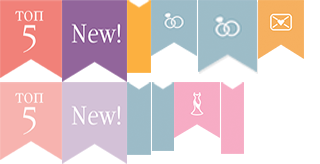
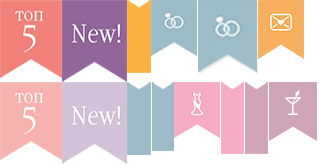
+ hen-party page

Changed region(s): [[0.75, 0.4878, 1.0, 0.9451]]

diff --git a/hen-party.html b/hen-party.html
@@ -38,7 +38,7 @@
             </div>
             <nav class="main-nav">
                 <ul id="nav">
-                    <li class="invitations active">
+                    <li class="invitations">
                         <a href="#"><span>Приглашения</span></a>
                     </li>
                     <li class="wedding-look has-drop">
@@ -56,10 +56,10 @@
                             <li><a href="#">Выездная регистрация</a></li>
                         </ul>
                     </li>
-                    <li class="party has-drop">
+                    <li class="party has-drop active">
                         <a href="#"><span>Девичник и мальчишник</span></a>
                         <ul class="drop">
-                            <li><a href="#">Девичник</a></li>
+                            <li class="active"><a href="#">Девичник</a></li>
                             <li><a href="#">Мальчишник</a></li>
                         </ul>
                     </li>
@@ -95,11 +95,11 @@
         </header>
         <main id="main">
             <div class="container">
-                <h1 class="title title-invitations-wide"><span>Приглашения</span></h1>
-                <div class="ideas ideas-invitations">
+                <h1 class="title title-hen-party-wide"><span>Девичник</span></h1>
+                <div class="ideas ideas-hen-party">
                     <div class="text-holder">
                         <span class="text-fotoideas"><img src="images/text-fotoideas.png" alt="Фотоидеи"/></span>
-                        <strong class="text-add-photos"><img src="images/text-add-photos-brown.png" alt="Создай приглашение своей мечты добавляй фотографии в коллекции и делись с друзьями"/></strong>
+                        <strong class="text-add-photos"><img src="images/text-add-photos-purple.png" alt="Создай девичник своей мечты добавляй фотографии в коллекции и делись с друзьями"/></strong>
                         <ul class="color-list">
                             <li><a href="#"><span style="background: #c92038;">&nbsp;</span></a></li>
                             <li><a href="#"><span style="background: #f9bfcb;">&nbsp;</span></a></li>
@@ -132,15 +132,15 @@
                             <div class="photo-box photo-box-large2 pink-color">
                                 <div class="caption">
                                     <div class="cell cell-sticker">
-                                        <span class="sticker orange-wide"></span>
+                                        <span class="sticker purple-wide"></span>
                                     </div>
                                     <div class="cell">
-                                        <strong><a href="#">Как сделать оригинальное приглашение на свадьбу</a></strong>
+                                        <strong><a href="#">Как провести девичник?</a></strong>
                                     </div>
                                 </div>
                                 <a class="img-link" href="#">&nbsp;</a>
                                 <div class="photo">
-                                    <div class="cropper"><img src="images/img72.jpg" alt="" width="368" height="238"/></div>
+                                    <div class="cropper"><img src="images/img79.jpg" alt="" width="369" height="246"/></div>
                                 </div>
                             </div>
                         </li>
@@ -148,15 +148,15 @@
                             <div class="photo-box photo-box-large2 pink-color">
                                 <div class="caption">
                                     <div class="cell cell-sticker">
-                                        <span class="sticker orange-wide"></span>
+                                        <span class="sticker purple-wide"></span>
                                     </div>
                                     <div class="cell">
-                                        <strong><a href="#">Приглашения в стиле свадьбы</a></strong>
+                                        <strong><a href="#">Где провести девичник?</a></strong>
                                     </div>
                                 </div>
                                 <a class="img-link" href="#">&nbsp;</a>
                                 <div class="photo">
-                                    <div class="cropper"><img src="images/img73.jpg" alt="" width="367" height="245"/></div>
+                                    <div class="cropper"><img src="images/img80.jpg" alt="" width="362" height="243"/></div>
                                 </div>
                             </div>
                         </li>
@@ -164,15 +164,63 @@
                             <div class="photo-box photo-box-large2 pink-color">
                                 <div class="caption">
                                     <div class="cell cell-sticker">
-                                        <span class="sticker orange-wide"></span>
+                                        <span class="sticker purple-wide"></span>
                                     </div>
                                     <div class="cell">
-                                        <strong><a href="#">Тексты для приглашений</a></strong>
+                                        <strong><a href="#">Подарки</a></strong>
                                     </div>
                                 </div>
                                 <a class="img-link" href="#">&nbsp;</a>
                                 <div class="photo">
-                                    <div class="cropper"><img src="images/img74.jpg" alt="" width="364" height="245"/></div>
+                                    <div class="cropper"><img src="images/img81.jpg" alt="" width="357" height="243"/></div>
+                                </div>
+                            </div>
+                        </li>
+                        <li>
+                            <div class="photo-box photo-box-large2 pink-color">
+                                <div class="caption">
+                                    <div class="cell cell-sticker">
+                                        <span class="sticker purple-wide"></span>
+                                    </div>
+                                    <div class="cell">
+                                        <strong><a href="#">Тематика вечеринки</a></strong>
+                                    </div>
+                                </div>
+                                <a class="img-link" href="#">&nbsp;</a>
+                                <div class="photo">
+                                    <div class="cropper"><img src="images/img82.jpg" alt="" width="369" height="246"/></div>
+                                </div>
+                            </div>
+                        </li>
+                        <li>
+                            <div class="photo-box photo-box-large2 pink-color">
+                                <div class="caption">
+                                    <div class="cell cell-sticker">
+                                        <span class="sticker purple-wide"></span>
+                                    </div>
+                                    <div class="cell">
+                                        <strong><a href="#">Конкурсы и идеи</a></strong>
+                                    </div>
+                                </div>
+                                <a class="img-link" href="#">&nbsp;</a>
+                                <div class="photo">
+                                    <div class="cropper"><img src="images/img83.jpg" alt="" width="361" height="253"/></div>
+                                </div>
+                            </div>
+                        </li>
+                        <li>
+                            <div class="photo-box photo-box-large2 pink-color">
+                                <div class="caption">
+                                    <div class="cell cell-sticker">
+                                        <span class="sticker purple-wide"></span>
+                                    </div>
+                                    <div class="cell">
+                                        <strong><a href="#">Оформление</a></strong>
+                                    </div>
+                                </div>
+                                <a class="img-link" href="#">&nbsp;</a>
+                                <div class="photo">
+                                    <div class="cropper"><img src="images/img84.jpg" alt="" width="368" height="246"/></div>
                                 </div>
                             </div>
                         </li>
@@ -185,11 +233,11 @@
                             <div class="photo-box photo-box-large">
                                 <a class="img-link" href="#">&nbsp;</a>
                                 <div class="photo">
-                                    <div class="cropper"><img src="images/img75.jpg" alt="" width="361" height="257"/></div>
+                                    <div class="cropper"><img src="images/img85.jpg" alt="" width="364" height="246"/></div>
                                 </div>
                                 <div class="caption">
                                     <div class="cell">
-                                        <strong><a href="#">Видео приглашение</a></strong>
+                                        <strong><a href="#">Подбор места</a></strong>
                                         <span class="price">От 1 200 руб.</span>
                                     </div>
                                 </div>
@@ -199,11 +247,11 @@
                             <div class="photo-box photo-box-large">
                                 <a class="img-link" href="#">&nbsp;</a>
                                 <div class="photo">
-                                    <div class="cropper"><img src="images/img76.jpg" alt="" width="356" height="261"/></div>
+                                    <div class="cropper"><img src="images/img86.jpg" alt="" width="362" height="271"/></div>
                                 </div>
                                 <div class="caption">
                                     <div class="cell">
-                                        <strong><a href="#">Интернет открытка</a></strong>
+                                        <strong><a href="#">Оформление помещения</a></strong>
                                         <span class="price">От 1 500 руб.</span>
                                     </div>
                                 </div>
@@ -213,11 +261,10 @@
                             <div class="photo-box photo-box-large">
                                 <a class="img-link" href="#">&nbsp;</a>
                                 <div class="photo">
-                                    <div class="cropper"><img src="images/img77.jpg" alt="" width="354" height="244"/></div>
+                                    <div class="cropper"><img src="images/img87.jpg" alt="" width="356" height="245"/></div>
                                 </div>
                                 <div class="caption">
                                     <div class="cell">
-                                        <strong><a href="#">Интернет сайт</a></strong>
                                         <span class="price">От 2 200 руб.</span>
                                     </div>
                                 </div>
@@ -227,11 +274,11 @@
                             <div class="photo-box photo-box-large">
                                 <a class="img-link" href="#">&nbsp;</a>
                                 <div class="photo">
-                                    <div class="cropper"><img src="images/img78.jpg" alt="" width="365" height="247"/></div>
+                                    <div class="cropper"><img src="images/img88.jpg" alt="" width="355" height="244"/></div>
                                 </div>
                                 <div class="caption">
                                     <div class="cell">
-                                        <strong><a href="#">Удивительный курьер - приглашение лично в руки</a></strong>
+                                        <strong><a href="#">Прокат лимузина</a></strong>
                                         <span class="price">От 1 200 руб.</span>
                                     </div>
                                 </div>
@@ -250,7 +297,7 @@
                                 </div>
                                 <div class="caption">
                                     <div class="cell cell-sticker">
-                                        <span class="sticker">&nbsp;</span>
+                                        <span class="sticker purple">&nbsp;</span>
                                     </div>
                                     <div class="cell">
                                         <strong><a href="#">Подушечка для колец</a></strong>
@@ -267,7 +314,7 @@
                                 </div>
                                 <div class="caption">
                                     <div class="cell cell-sticker">
-                                        <span class="sticker">&nbsp;</span>
+                                        <span class="sticker purple">&nbsp;</span>
                                     </div>
                                     <div class="cell">
                                         <strong><a href="#">Корочка для свидетельства о браке</a></strong>
@@ -284,7 +331,7 @@
                                 </div>
                                 <div class="caption">
                                     <div class="cell cell-sticker">
-                                        <span class="sticker">&nbsp;</span>
+                                        <span class="sticker purple">&nbsp;</span>
                                     </div>
                                     <div class="cell">
                                         <strong><a href="#">Бокалы для шампанского</a></strong>
@@ -301,7 +348,7 @@
                                 </div>
                                 <div class="caption">
                                     <div class="cell cell-sticker">
-                                        <span class="sticker">&nbsp;</span>
+                                        <span class="sticker purple">&nbsp;</span>
                                     </div>
                                     <div class="cell">
                                         <strong><a href="#">Ручка для росписи</a></strong>
@@ -318,7 +365,7 @@
                                 </div>
                                 <div class="caption">
                                     <div class="cell cell-sticker">
-                                        <span class="sticker">&nbsp;</span>
+                                        <span class="sticker purple">&nbsp;</span>
                                     </div>
                                     <div class="cell">
                                         <strong><a href="#">Лепестки роз, конфети, хлопушки</a></strong>
@@ -335,7 +382,7 @@
                                 </div>
                                 <div class="caption">
                                     <div class="cell cell-sticker">
-                                        <span class="sticker">&nbsp;</span>
+                                        <span class="sticker purple">&nbsp;</span>
                                     </div>
                                     <div class="cell">
                                         <strong><a href="#">Корзины/кулечки для лепестков</a></strong>

diff --git a/css/style.css b/css/style.css
@@ -807,6 +807,14 @@ fieldset {
     background-position: 0 -644px;
 }
 
+.title.title-hen-party-wide {
+    margin-bottom: 20px;
+}
+.title.title-hen-party-wide span {
+    width: 1201px;
+    height: 46px;
+    background-position: 0 -694px;
+}
 .text-title {
     display: block;
     margin: 0;
@@ -1112,7 +1120,7 @@ fieldset {
 }
 .photo-box .photo {
     position: relative;
-    padding: 14px 5px 5px;
+    padding: 20px 5px 5px;
 }
 .photo-box-large2 .photo {
     padding-top: 80px;
@@ -1218,9 +1226,13 @@ fieldset {
 .photo-box .sticker.pink {
     background-position: -221px -82px;
 }
+.photo-box .sticker.purple {
+    background-position: -245px -82px;
+}
 .photo-box .sticker.dark-blue-wide,
 .photo-box .sticker.pink-wide,
-.photo-box .sticker.orange-wide {
+.photo-box .sticker.orange-wide,
+.photo-box .sticker.purple-wide{
     width: 46px;
     height: 59px;
 }
@@ -1232,6 +1244,9 @@ fieldset {
 }
 .photo-box .sticker.orange-wide {
     background-position: -258px 0;
+}
+.photo-box .sticker.purple-wide {
+    background-position: -269px -82px;
 }
 /* shop */
 .shop {
@@ -1685,6 +1700,10 @@ div.see-also ul > li{
     background: url(../images/bg-ideas-invitations.jpg) no-repeat 50% 0;
     border-radius: 0;
 }
+.ideas.ideas-hen-party {
+    background: url(../images/bg-ideas-hen-party.jpg) no-repeat 50% 0;
+    border-radius: 0;
+}
 .ideas .text-holder {
     border: solid #f8fcfa;
     border-width: 2px 1px;
@@ -1702,6 +1721,9 @@ div.see-also ul > li{
 .ideas .text-add-photos {
     display: block;
     margin: 0 auto 20px;
+}
+.ideas.ideas-hen-party .text-add-photos {
+    margin-right: 67px;
 }
 .color-list {
     margin: 0 0 6px;
@@ -1769,6 +1791,9 @@ div.see-also ul > li{
 }
 .ideas.ideas-invitations .button {
     background: #eee6dd;
+}
+.ideas.ideas-hen-party .button {
+    background: #fff;
 }
 .banner .button:hover,
 .ideas .button:hover{

diff --git a/bride.html b/bride.html
@@ -99,7 +99,7 @@
                 <div class="ideas ideas-bride">
                     <div class="text-holder">
                         <span class="text-fotoideas"><img src="images/text-fotoideas.png" alt="Фотоидеи"/></span>
-                        <strong class="text-add-photos"><img src="images/text-add-photos-purple.png" alt="Создай свадебный образ своей мечты добавляй фотографии в коллекции и делись с друзьями"/></strong>
+                        <strong class="text-add-photos"><img src="images/text-add-photos-violet.png" alt="Создай свадебный образ своей мечты добавляй фотографии в коллекции и делись с друзьями"/></strong>
                         <ul class="color-list">
                             <li><a href="#"><span style="background: #c92038;">&nbsp;</span></a></li>
                             <li><a href="#"><span style="background: #f9bfcb;">&nbsp;</span></a></li>

diff --git a/registration.html b/registration.html
@@ -99,7 +99,7 @@
                 <div class="ideas">
                     <div class="text-holder">
                         <span class="text-fotoideas"><img src="images/text-fotoideas.png" alt="Фотоидеи"/></span>
-                        <strong class="text-add-photos"><img src="images/text-add-photos-green.png" alt="Создай свадебный образ своей мечты добавляй фотографии в коллекции и делись с друзьями"/></strong>
+                        <strong class="text-add-photos"><img src="images/text-add-photos-green.png" alt="Создай свадьбу своей мечты добавляй фотографии в коллекции и делись с друзьями"/></strong>
                         <ul class="color-list">
                             <li><a href="#"><span style="background: #c92038;">&nbsp;</span></a></li>
                             <li><a href="#"><span style="background: #f9bfcb;">&nbsp;</span></a></li>
